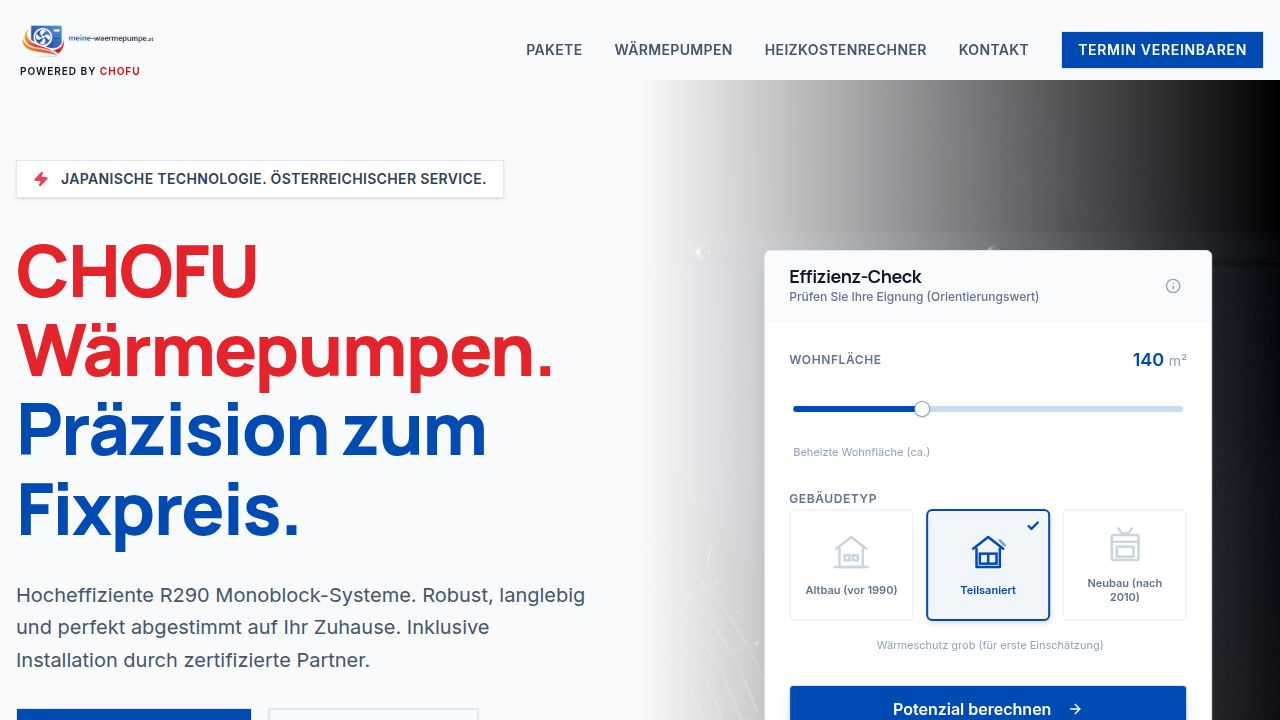
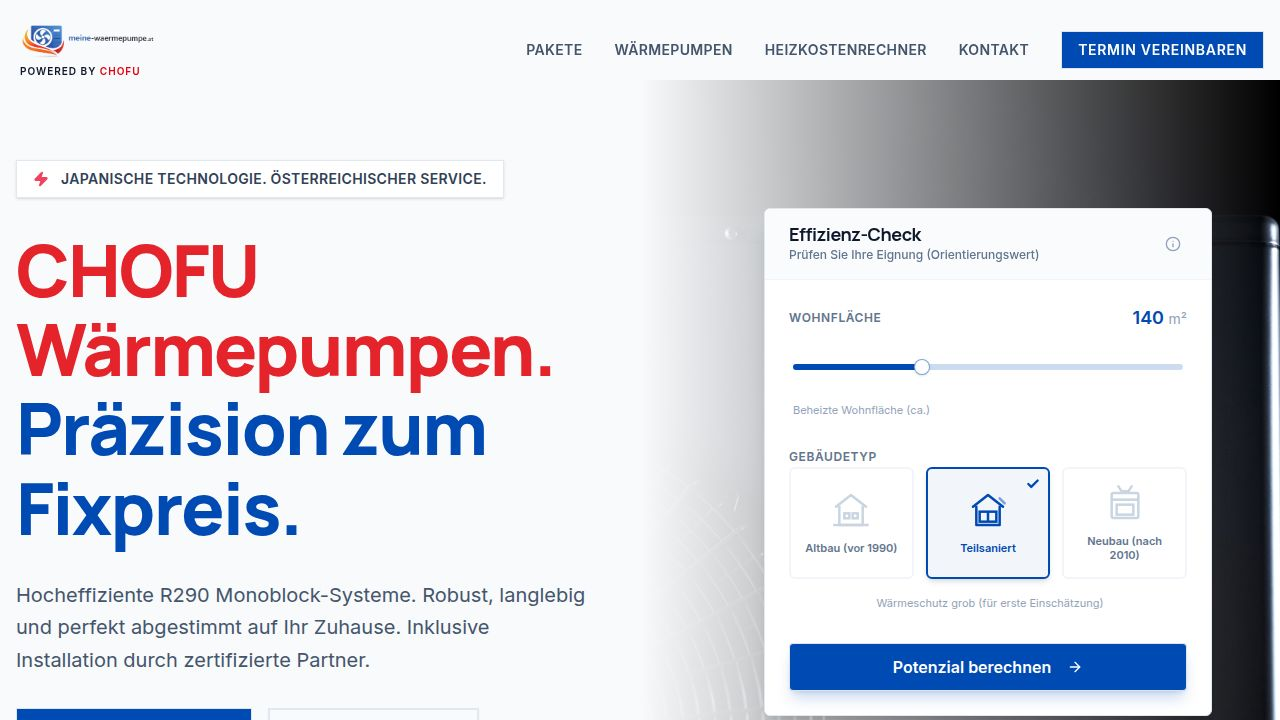
Remove unnecessary product details from the home page
Removed the "R290 Kältemittel" and "Bis 75°C Vorlauf" div elements from the home page component (client/src/pages/home.tsx).

Replit-Commit-Author: Agent
Replit-Commit-Session-Id: ba84d938-865f-4858-8740-71099e6c1375
Replit-Commit-Checkpoint-Type: full_checkpoint
Replit-Commit-Event-Id: 90d7e17d-d851-4908-b13e-df78e8098f28
Replit-Commit-Screenshot-Url: https://storage.googleapis.com/screenshot-production-us-central1/d5bef52e-3ff3-45f0-8082-22a028fb348c/ba84d938-865f-4858-8740-71099e6c1375/x9pndDd
Replit-Helium-Checkpoint-Created: true

diff --git a/client/src/pages/home.tsx b/client/src/pages/home.tsx
@@ -172,16 +172,6 @@ export default function Home() {
               </Button>
             </div>
             
-            <div className="pt-8 flex items-center gap-8 text-sm text-slate-500 font-bold uppercase tracking-wider">
-              <div className="flex items-center gap-2">
-                <Check className="text-primary" size={20} strokeWidth={3} />
-                <span>R290 Kältemittel</span>
-              </div>
-              <div className="flex items-center gap-2">
-                <Check className="text-primary" size={20} strokeWidth={3} />
-                <span>Bis 75°C Vorlauf</span>
-              </div>
-            </div>
           </div>
 
           {/* Right: Technical Stats / Calc */}
